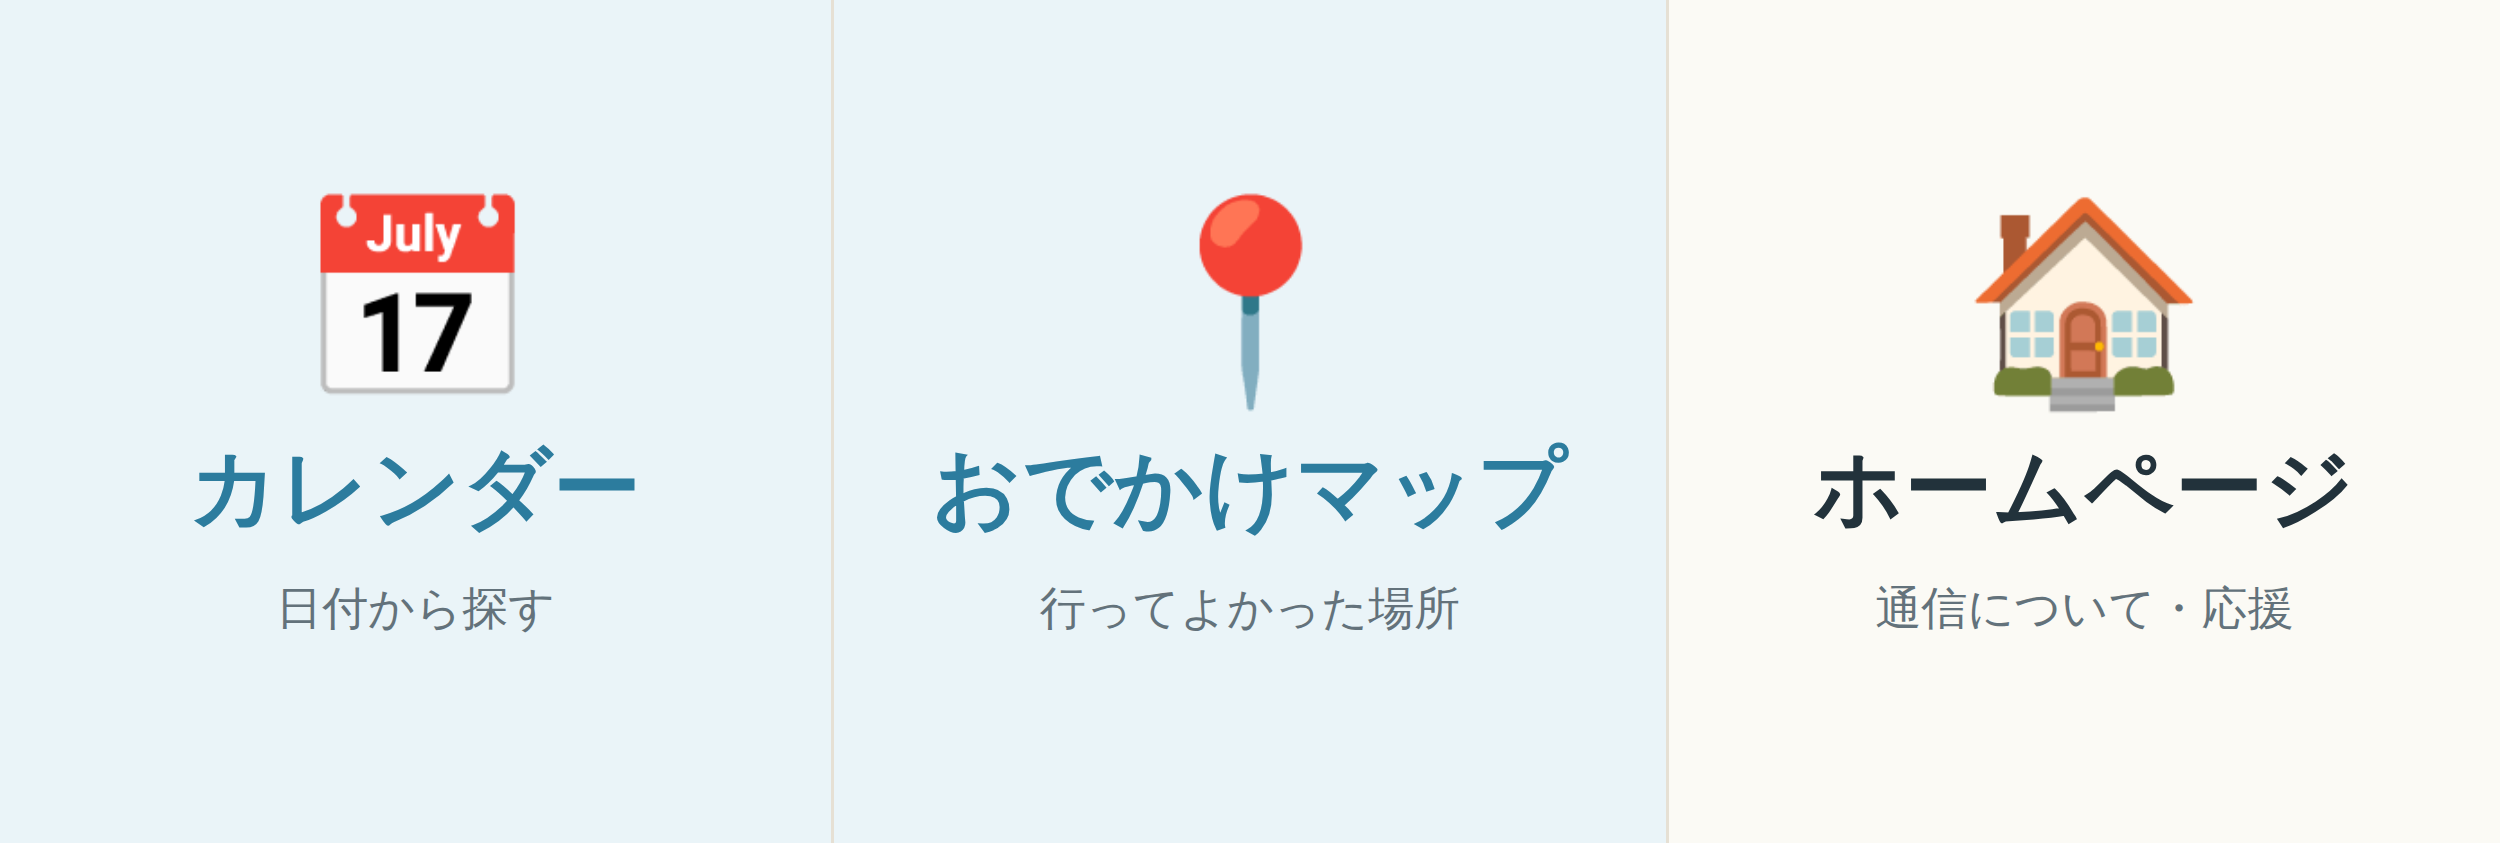
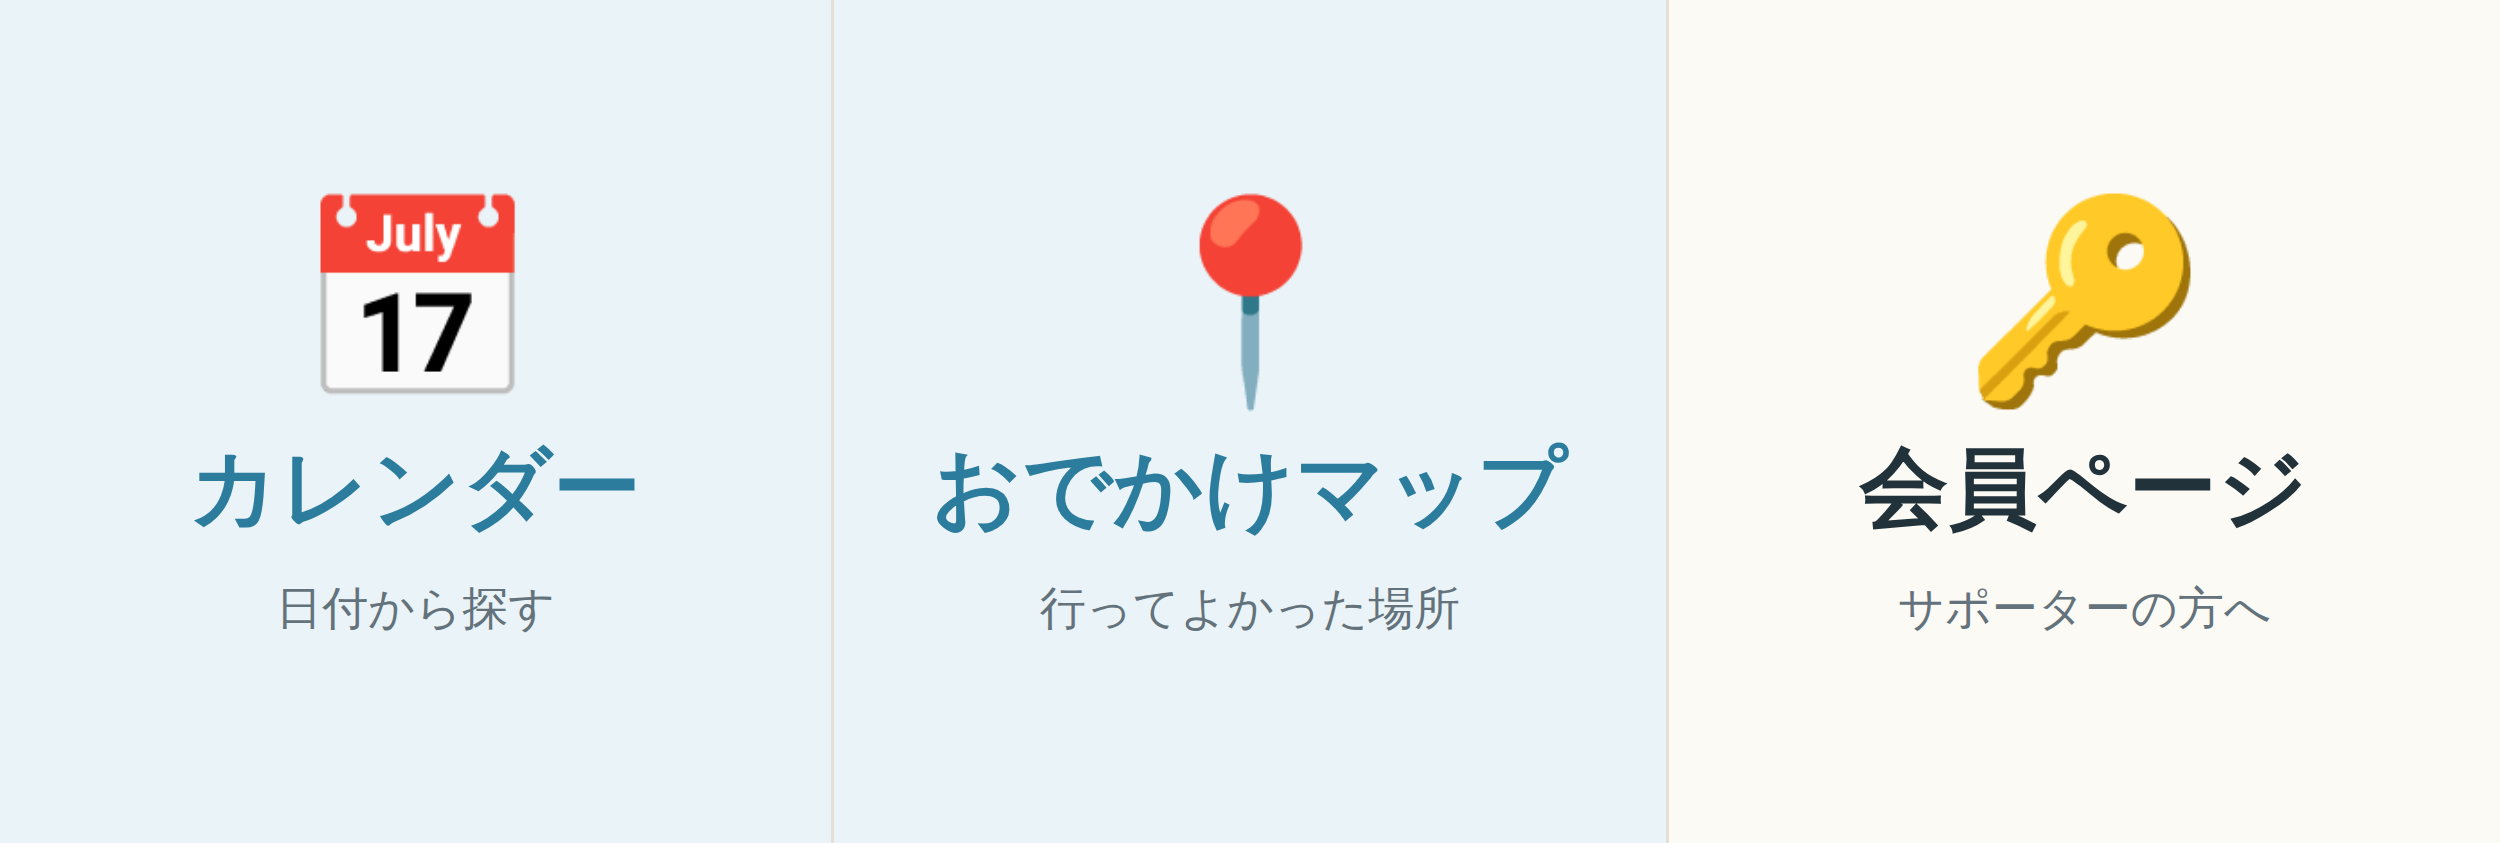
リッチメニュー右端をホームページ→会員ページに変更
リッチメニューを見るのは既に友だち追加した人であり、「通信について」を
案内する必要がない(オーナー判断)。その枠を会員ページに充てる。

会員ページは合言葉ゲートだが、非会員がタップしても
「まだサポーターでない方へ」＋月300円の案内＋ホームページへのリンクが
表示されるため行き止まりにならない。実際のページを確認したうえで採用。

Claude-Session: https://claude.ai/code/session_01TyaNTcqynAhK5RxtQUWRVv

Changed region(s): [[0.78, 0.2159, 0.8736, 0.4935], [0.7176, 0.5243, 0.936, 0.6477], [0.7488, 0.6785, 0.936, 0.7711]]

diff --git a/docs/share-kit.md b/docs/share-kit.md
@@ -139,15 +139,17 @@ https://bonvoya.nicomaru.tokyo/
   |---|---|---|---|
   | 1 | 左 | **カレンダー** | https://bonvoya.nicomaru.tokyo/calendar.html |
   | 2 | 中 | **おでかけマップ** | https://bonvoya.nicomaru.tokyo/map.html |
-  | 3 | 右 | ホームページ | https://bonvoya.nicomaru.tokyo/ |
+  | 3 | 右 | **会員ページ** | https://bonvoya.nicomaru.tokyo/m/s7f2ka/ |
 
   > ⚠ **テンプレート「小」(2500×843) は最大3分割。**4分割は「大」(2500×1686) にしかない。
-  > 一度4ボタンで作ったが設定できないため3ボタンに戻した（2026-09-01）。
-  >
-  > **変更の理由（オーナー判断 2026-09-01）**: おでかけガイドは実用性が低いと判断し、
-  > **カレンダーとマップを主役にした**。この2つは左側（親指が届く側）に置く。
-  > **会員ページのボタンは廃止。**ホームページの応援セクションに会員ページへの導線があるため、
-  > サポーターの入口は失われない。有料訴求はホームページに一本化する方針とも揃う。
+
+  > **構成の理由（オーナー判断 2026-09-01）**
+  > - おでかけガイドは実用性が低いため廃止。**カレンダーとマップを左側**（親指が届く側）に置く
+  > - **ホームページのボタンは不要。**リッチメニューを見るのは既に友だち追加した人で、
+  >   「通信について」を今さら読む必要がない。その枠を会員ページに使う
+  > - 会員ページは合言葉ゲートだが、**非会員がタップしても行き止まりにならない**
+  >   （「まだサポーターでない方へ」＋月300円の案内＋ホームページへのリンクが出る）。
+  >   むしろサポーター制度の存在を知ってもらう枠として機能する
 - (任意)**未認証→認証申請**: 無料。緑バッジ＋検索に出る。設定→アカウント認証をリクエスト
 
 ---
